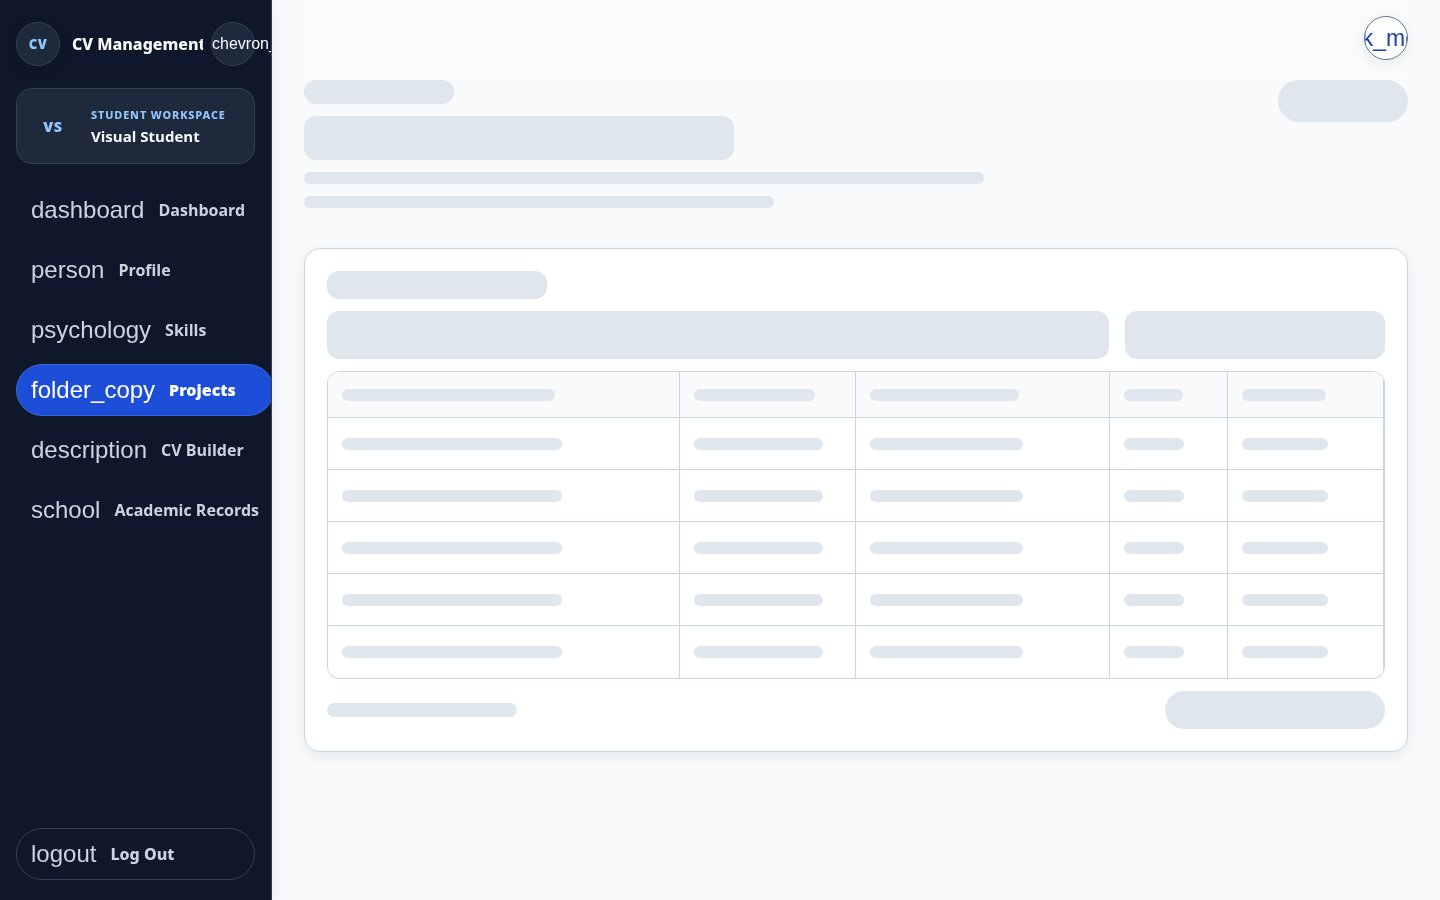
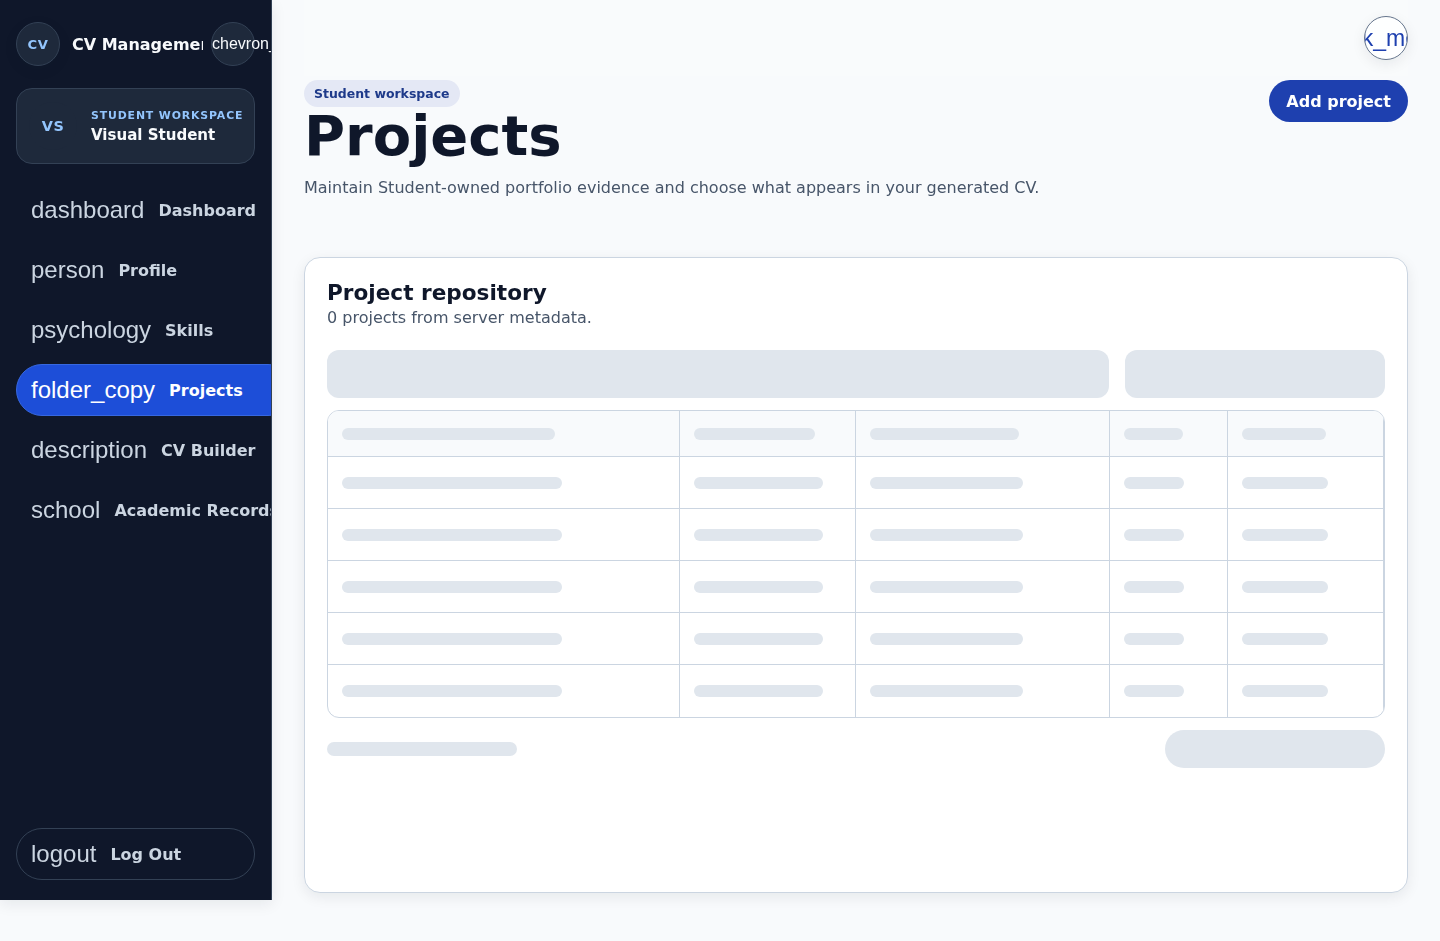
test(e2e): finalize deterministic Linux baselines

diff --git a/SPRINT_6_SKELETON_IMPLEMENTATION_REPORT.md b/SPRINT_6_SKELETON_IMPLEMENTATION_REPORT.md
@@ -66,22 +66,23 @@ These files remain tracked for compatibility, but they are no longer exported by
 
 ## Validation results
 
-| Validation                 | Result                                                                                                                         |
-| -------------------------- | ------------------------------------------------------------------------------------------------------------------------------ |
-| `npm ci`                   | Passed                                                                                                                         |
-| `npm run format:check`     | Passed                                                                                                                         |
-| `npm run lint`             | Passed                                                                                                                         |
-| `npm run typecheck`        | Passed                                                                                                                         |
-| `npm run build`            | Passed; 601 modules transformed                                                                                                |
-| `npm run verify:scope`     | Passed                                                                                                                         |
-| `npm run openapi:check`    | Passed against the repository's canonical OpenAPI artifacts                                                                    |
-| Unit/component tests       | **55 test files and 250 tests passed** with the standard `npm run test` command                                                |
-| Focused functional E2E     | **3 passed**: Academic Ledger redirect, ledger upload/review/commit, and reduced-motion shimmer behavior                       |
-| Skeleton visual/CLS E2E    | **45 passed** across desktop light, tablet light, mobile light, desktop dark, and reduced-motion projects; included in full CI |
-| Motion/accessibility E2E   | Four Linux Chromium baselines regenerated from the final branch; the three reported differences were reviewed and accepted     |
-| Static legacy-shimmer scan | Passed; no `@keyframes shimmer`, `animation: shimmer`, skeleton `background-position`, or `skeletonShimmer` remains            |
-| Static legacy-radius scan  | Passed; no obsolete skeleton `rounded` API usage remains                                                                       |
-| Generic skeleton cleanup   | Passed; `TableSkeleton.tsx` and `WorkspaceSkeleton.tsx` are unexported and unused                                              |
+| Validation                 | Result                                                                                                                                  |
+| -------------------------- | --------------------------------------------------------------------------------------------------------------------------------------- |
+| `npm ci`                   | Passed                                                                                                                                  |
+| `npm run format:check`     | Passed                                                                                                                                  |
+| `npm run lint`             | Passed                                                                                                                                  |
+| `npm run typecheck`        | Passed                                                                                                                                  |
+| `npm run build`            | Passed; 601 modules transformed                                                                                                         |
+| `npm run verify:scope`     | Passed                                                                                                                                  |
+| `npm run openapi:check`    | Passed against the repository's canonical OpenAPI artifacts                                                                             |
+| Unit/component tests       | **55 test files and 250 tests passed** with the standard `npm run test` command                                                         |
+| Focused functional E2E     | **3 passed**: Academic Ledger redirect, ledger upload/review/commit, and reduced-motion shimmer behavior                                |
+| Skeleton visual/CLS E2E    | **45 passed** serially across desktop light, tablet light, mobile light, desktop dark, and reduced-motion projects; included in full CI |
+| Cross-browser E2E          | **184 cases** run across Chromium, Firefox, WebKit, and Edge after the visual suite                                                     |
+| Motion/accessibility E2E   | Four Linux Chromium baselines regenerated from the final branch; the three reported differences were reviewed and accepted              |
+| Static legacy-shimmer scan | Passed; no `@keyframes shimmer`, `animation: shimmer`, skeleton `background-position`, or `skeletonShimmer` remains                     |
+| Static legacy-radius scan  | Passed; no obsolete skeleton `rounded` API usage remains                                                                                |
+| Generic skeleton cleanup   | Passed; `TableSkeleton.tsx` and `WorkspaceSkeleton.tsx` are unexported and unused                                                       |
 
 ## Visual baseline verification
 
@@ -93,12 +94,13 @@ The Linux Chromium baselines were regenerated on GitHub Actions from commit `075
 
 The dark gateway baseline was regenerated in the same run so the full motion snapshot set comes from one environment and commit. No production layout code was changed to force the snapshots to pass.
 
-The complete 90-image skeleton/content baseline set was then regenerated on Ubuntu from the final combined implementation in GitHub Actions run `29689922893`. Enabling these 45 cases in the required CI matrix exposed real CLS, intrinsic-height, and visual-state timing issues, which were fixed instead of relaxing the `< 0.02` budget or screenshot tolerance:
+The complete 90-image skeleton/content baseline set was regenerated on Ubuntu from the final combined implementation. The authoritative serialized regeneration is GitHub Actions run `29690610148`; all 45 visual/CLS cases passed. Running snapshot cases with one worker matches regeneration and verification conditions, while the following 184-case cross-browser suite remains parallel. Enabling these 45 cases in CI exposed real CLS, intrinsic-height, and visual-state timing issues, which were fixed instead of relaxing the `< 0.02` budget or screenshot tolerance:
 
 - The Academic Records GPA loading boundary now reserves enough height for the final three-card summary in current Linux text metrics.
 - The Registered Students mobile skeleton now mirrors the compact roster-row geometry instead of using oversized project-style cards.
 - The Registered Students loading boundary reserves a stable height above both measured desktop intrinsic states.
 - Visual captures wait for the intended loading regions and a short render-settle interval, preventing transient nested skeleton compositions from becoming baselines.
+- Snapshot capture is serialized to prevent resource contention from changing document height; only the Student Projects desktop-light image changed when the final 90-image set was regenerated under this deterministic execution model.
 
 ## Known limitations
 